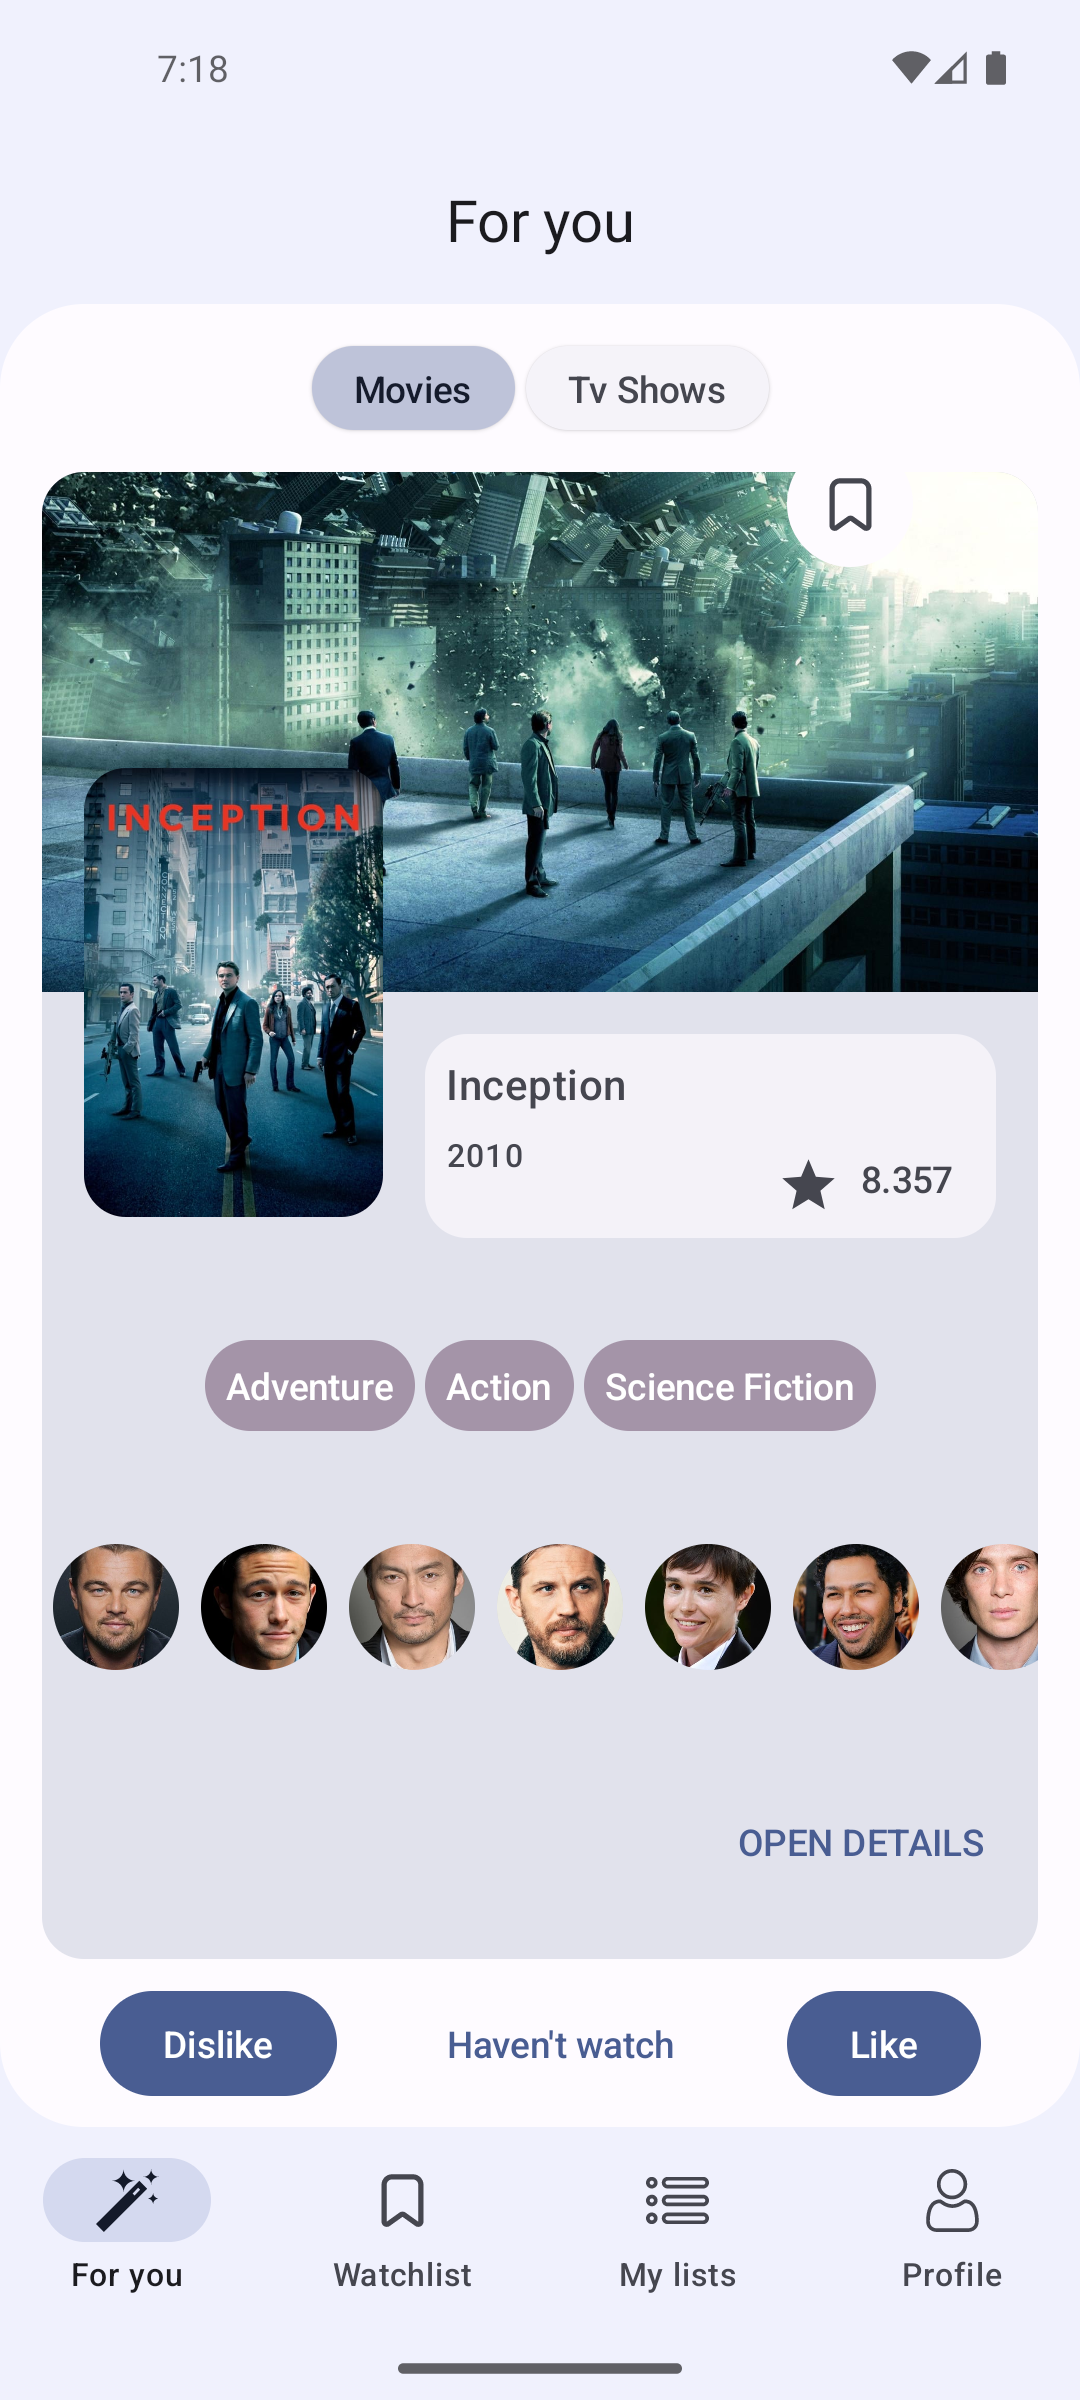
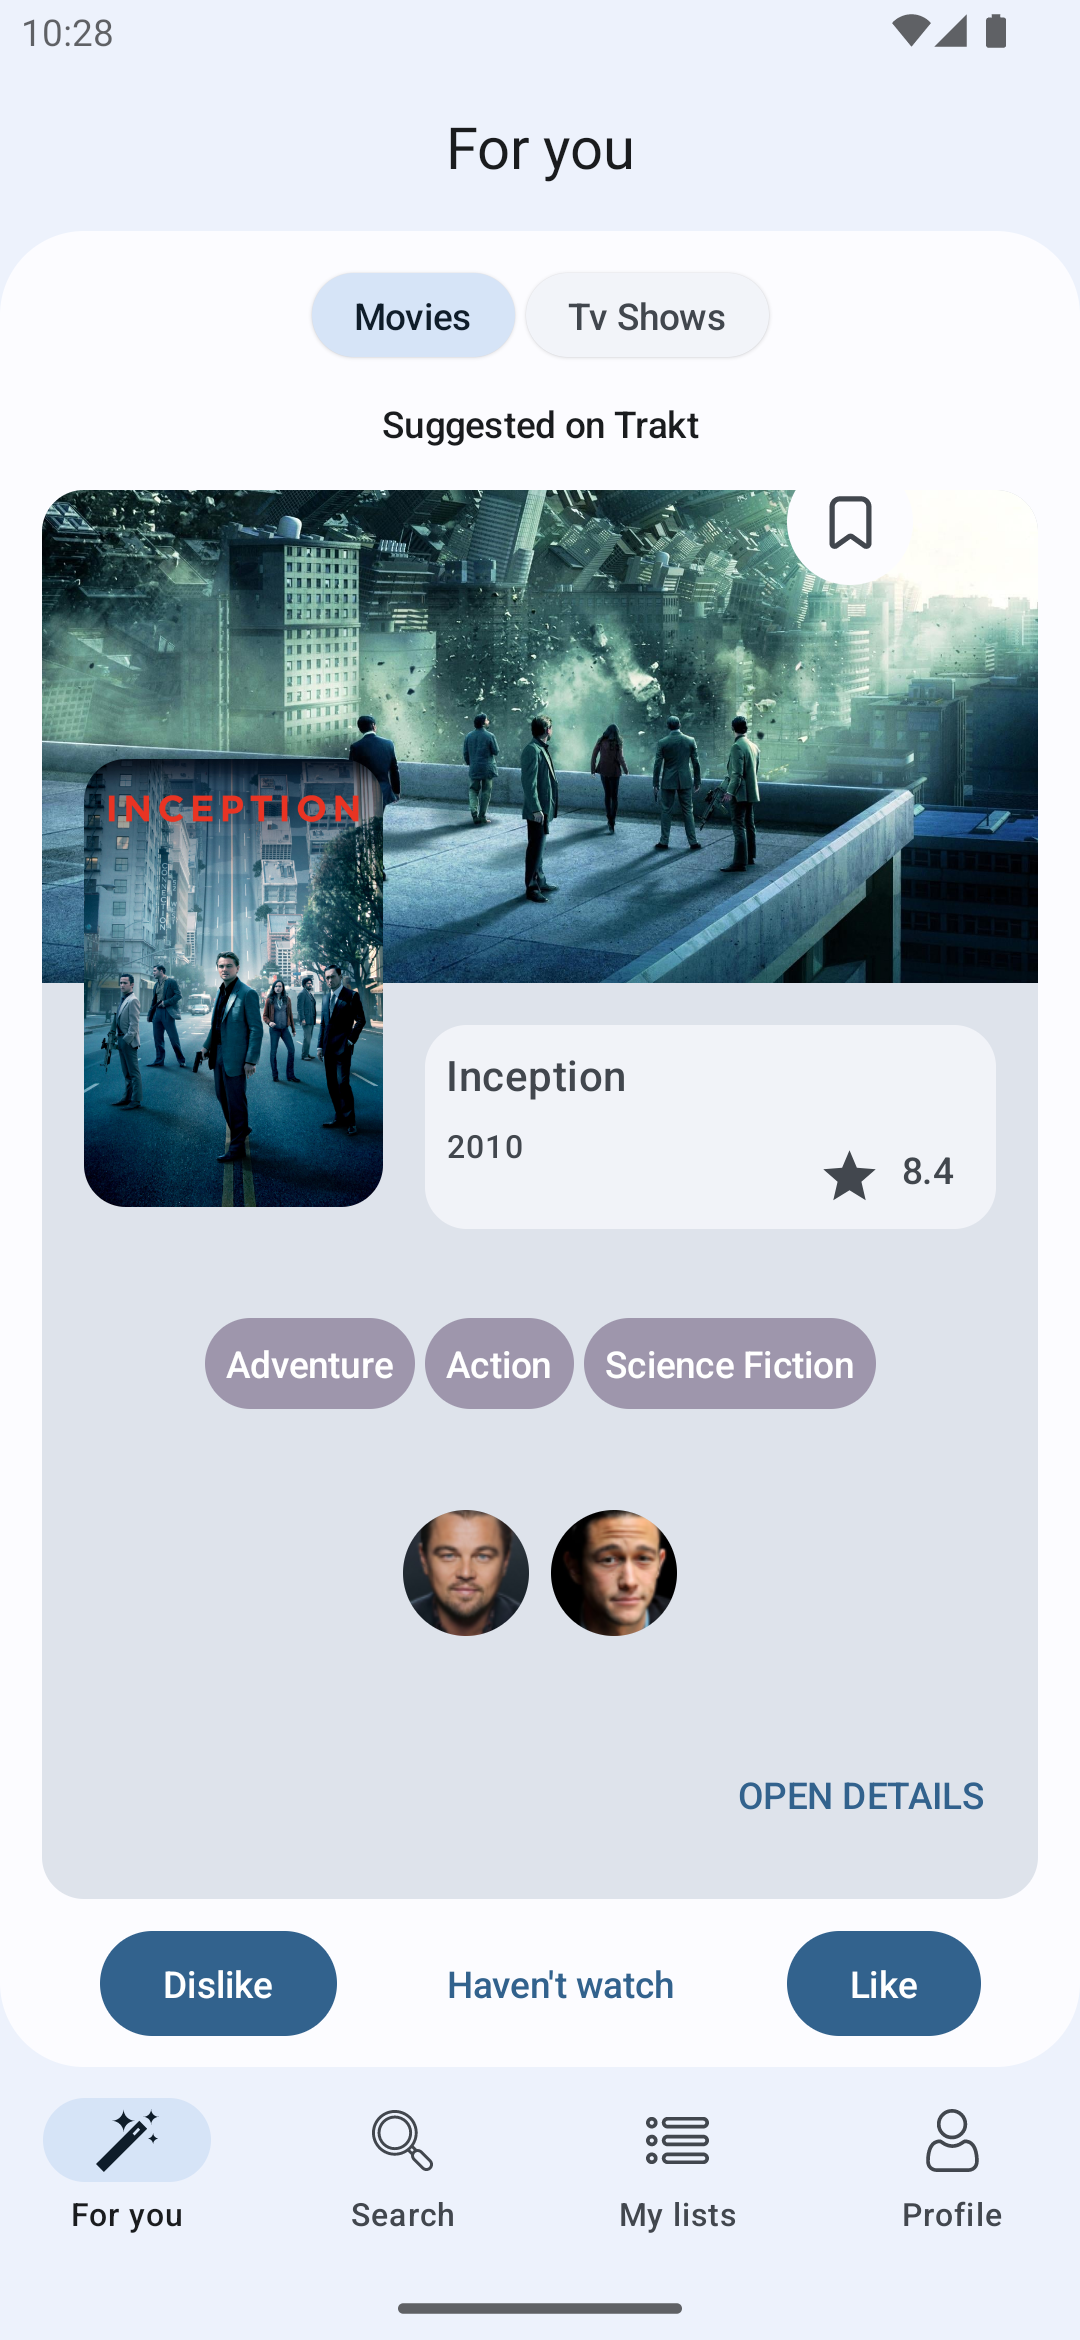
chore: update screenshots

diff --git a/app/android/src/androidTest/kotlin/cinescout/android/ScreenshotGenerator.kt b/app/android/src/androidTest/kotlin/cinescout/android/ScreenshotGenerator.kt
@@ -21,7 +21,7 @@ import kotlin.test.Test
 @Ignore("Manual run only")
 class ScreenshotGenerator {
 
-    private val device = "phone"
+    private val device = Device.Phone
 
     @get:Rule
     val appRule = MockAppRule {
@@ -75,7 +75,8 @@ class ScreenshotGenerator {
             newInstall()
             watchlist {
                 add(ScreenplaySample.Inception)
-                add(ScreenplaySample.TheWolfOfWallStreet)
+                add(ScreenplaySample.BreakingBad)
+                add(ScreenplaySample.Grimm)
             }
         }
         runComposeAppTest {
@@ -112,6 +113,15 @@ class ScreenshotGenerator {
             capture("search_$device.png")
         }
     }
+}
+
+@Suppress("unused")
+private enum class Device(val string: String) {
+    Foldable("fold"),
+    Phone("phone"),
+    Tablet("tablet");
+
+    override fun toString() = string
 }
 
 private fun ComposeAppTest.capture(name: String) {

diff --git a/cinescout/media/data/remote/src/commonMain/kotlin/cinescout/media/data/remote/mock/TmdbMediaMockEngine.kt b/cinescout/media/data/remote/src/commonMain/kotlin/cinescout/media/data/remote/mock/TmdbMediaMockEngine.kt
@@ -31,6 +31,9 @@ private fun getContent(url: Url): String {
             "/${TmdbScreenplayIdSample.Inception.value}/images" in fullPath -> TmdbScreenplayImagesJson.Inception
         "/${TmdbScreenplayIdSample.Inception.value}/videos" in fullPath -> TmdbScreenplayVideosJson.Inception
 
+        "/${TmdbScreenplayIdSample.TheWolfOfWallStreet.value}?append_to_response=images" in fullPath ||
+            "/${TmdbScreenplayIdSample.TheWolfOfWallStreet.value}/images" in fullPath ->
+            TmdbScreenplayImagesJson.TheWolfOfWallStreet
         "/${TmdbScreenplayIdSample.TheWolfOfWallStreet.value}/images" in fullPath ->
             TmdbScreenplayImagesJson.TheWolfOfWallStreet
         "/${TmdbScreenplayIdSample.TheWolfOfWallStreet.value}/videos" in fullPath ->
